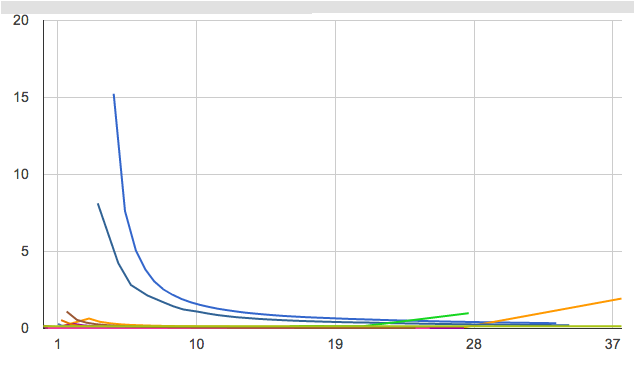
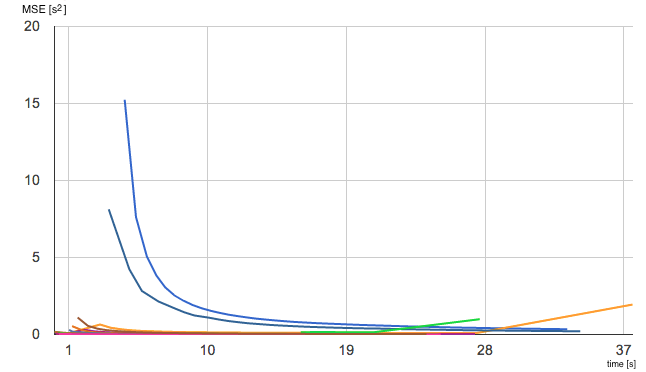
added base measures and units of measure on graphs

diff --git a/Paper/findings.tex b/Paper/findings.tex
@@ -5,8 +5,6 @@ We will now present the results of our experiments, going through each one of th
 \subsection{Regularity}
 As we stated before, the regularity tells us whether the users tend to be regular while tapping the red balloon during the activity. Let us first consider the first one, \testfirst. In Figure~\ref{fig:reg1} we can see the plot of the means squared error (from now on referred as MSE) for the activity. As we can see some sessions are very irregular in the beginning but all of them tend to a very low MSE, meaning that all the users are becoming very regular after a few seconds of activity. Besides of the observation of the graph this result is also confirmed by a very low average MSE of 0.15.
 
-\todo[inline]{Unit measures on graphs. Also remove or mark the average line.}
-
 \begin{figure}[h!t]
 \centering
 	{\setlength{\fboxsep}{1.5pt}

diff --git a/Paper/experiment.tex b/Paper/experiment.tex
@@ -31,9 +31,9 @@ Our final choice was the famous Tetris\textsuperscript{\texttrademark} soundtrac
 
 We then changed the BPM (beats per minute) of the song according to the different experiments.
 
-For the first experiment (\nameref{sec:test1}) we set the BPM to 130, which is slightly faster than the base case (see Section~\ref{sec:base-cases}).
+For the first experiment (\nameref{sec:test1}) we set the BPM to 130, which is slightly faster than the base case (122 BPM - see Section~\ref{sec:base-cases}).
 
-For the second one we instead tried to slow down the tapping rate by setting the BPM to 153, whereas the base case was \todo[inline]{Insert data of basecases}.
+For the second one we instead tried to slow down the tapping rate by setting the BPM to 153, whereas the base case was 313 BPM.
 
 \subsection{\testfirst}
 \label{sec:test1}
